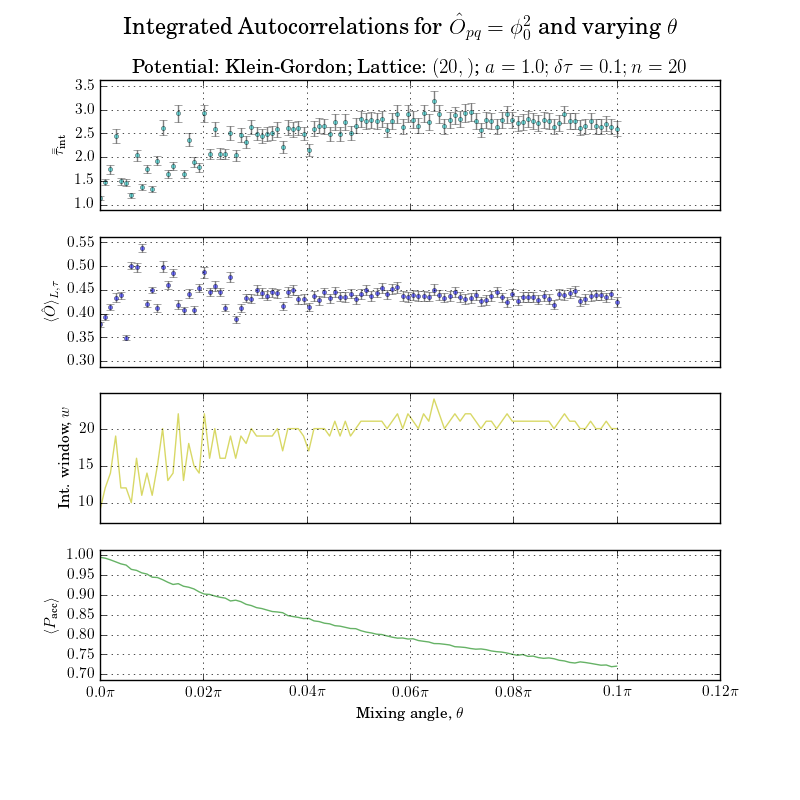
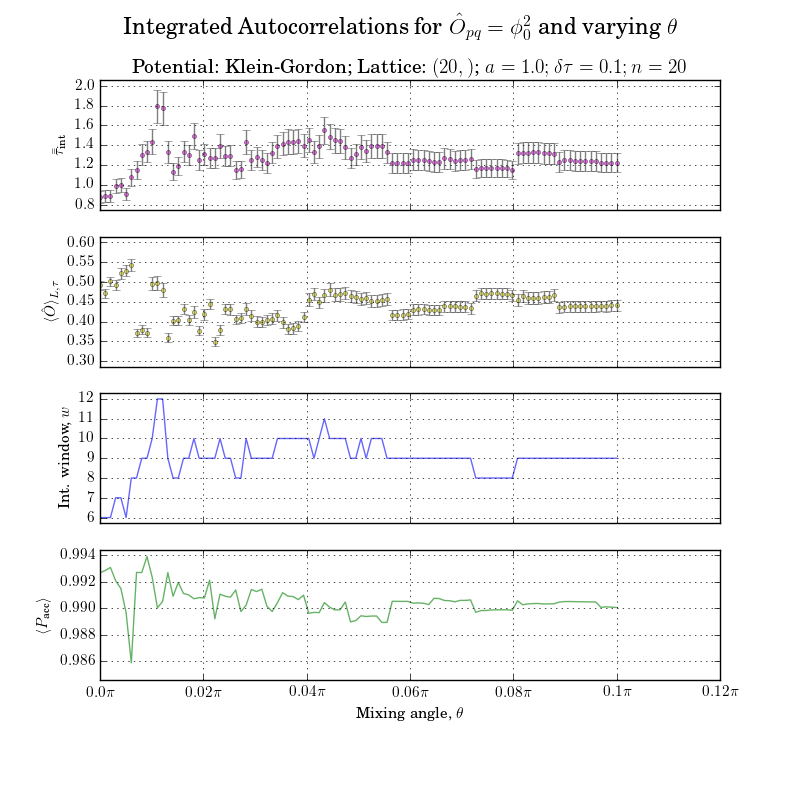
issue:#43 - re-running integrated correlations afte fixing acceptance rate in issue:#49
Former-commit-id: 18e2a4d179849ef3b65b83d40fdd21b970477a92

diff --git a/results/intacorr_xx_ghmc_kg_0p00t2p00.py b/results/intacorr_xx_ghmc_kg_0p00t2p00.py
@@ -14,9 +14,10 @@ spacing    = 1.
 step_size  = .1
 rand_steps = True
 points     = 100
+n_steps    = 20
 
-n_samples, n_burn_in = 20000, 20
-angle_fracs = np.linspace(0, .5, points, True)
+n_samples, n_burn_in = 200000, 20
+angle_fracs = np.linspace(0, 2., points, True)
 
 opFn = lambda samples: twoPoint(samples, separation=0)
 op_name = r'$\hat{O}_{pq} = \phi_0^2$'
@@ -24,7 +25,7 @@ op_name = r'$\hat{O}_{pq} = \phi_0^2$'
 if '__main__' == __name__:
     intac.main(x0, pot, file_name, 
         n_samples = n_samples, n_burn_in = n_burn_in, spacing = spacing,
-        rand_steps = rand_steps, step_size = step_size, n_steps = 1,
+        rand_steps = rand_steps, step_size = step_size, n_steps = n_steps,
         opFn = opFn, op_name=op_name,
         angle_fracs = angle_fracs,
         save = True)

diff --git a/results/intacorr_xx_khmc_kg_0p00t2p00.py b/results/intacorr_xx_khmc_kg_0p00t2p00.py
@@ -14,10 +14,9 @@ spacing    = 1.
 step_size  = .1
 rand_steps = True
 points     = 100
-n_steps    = 20
 
-n_samples, n_burn_in = 20000, 20
-angle_fracs = np.linspace(0, .1, points, True)
+n_samples, n_burn_in = 200000, 20
+angle_fracs = np.linspace(0, 2., points, True)
 
 opFn = lambda samples: twoPoint(samples, separation=0)
 op_name = r'$\hat{O}_{pq} = \phi_0^2$'
@@ -25,7 +24,7 @@ op_name = r'$\hat{O}_{pq} = \phi_0^2$'
 if '__main__' == __name__:
     intac.main(x0, pot, file_name, 
         n_samples = n_samples, n_burn_in = n_burn_in, spacing = spacing,
-        rand_steps = rand_steps, step_size = step_size, n_steps = n_steps,
+        rand_steps = rand_steps, step_size = step_size, n_steps = 1,
         opFn = opFn, op_name=op_name,
         angle_fracs = angle_fracs,
         save = True)

diff --git a/results/common/intac.py b/results/common/intac.py
@@ -117,9 +117,9 @@ def main(x0, pot, file_name, n_samples, n_burn_in, angle_fracs,
         xx = np.average(cfn)        # get average of the function run over the samples
         return cfn, xx, p
     
-    ans = prll_map(coreFunc, zip(range(angls.size), angls, n_samples), verbose=1-explicit_prog)
+    ans = prll_map(coreFunc, zip(range(angle_fracs.size), angls, n_samples), verbose=1-explicit_prog)
     cfn_lst, xx_lst, p_lst = zip(*ans)          # unpack from multiprocessing
-    print '\n'*angls.size*explicit_prog         # hack to avoid overlapping!
+    print '\n'*angle_fracs.size*explicit_prog         # hack to avoid overlapping!
     
     print '\n > Calculating integrated autocorrelations...\n'
     def coreFunc2(cfn):

diff --git a/results/intacorr_xx_khmc_kg_0p00t0p10.py b/results/intacorr_xx_khmc_kg_0p00t0p10.py
@@ -13,11 +13,11 @@ x0 = np.random.random((n,)*dim)
 spacing    = 1.
 step_size  = .1
 rand_steps = True
-points     = 50
+points     = 100
 angle_fracs = np.linspace(.005, .1, points, True)
 
 n_burn_in = 20
-n_samples = (100**(-np.log10(angle_fracs/100))).astype("int")
+n_samples = 10000
 
 opFn = lambda samples: twoPoint(samples, separation=0)
 op_name = r'$\hat{O}_{pq} = \phi_0^2$'

diff --git a/correlations/acorr.py b/correlations/acorr.py
@@ -90,7 +90,7 @@ def acorr(op_samples, mean, separation, norm = 1):
     acorrs = ((shifted - mean)*(op_samples - mean))[:n-separation] # indexing the 1st index for samples
     
     # normalise if a normalisation is given
-    acorrs /= norm
+    acorrs = acorrs / norm
     
     # av over all even of random trjectories
     acorr = acorrs.ravel().mean()

diff --git a/correlations/errors.py b/correlations/errors.py
@@ -165,7 +165,7 @@ def windowing(f_ret, f_aav, s_tau, n, fast):
     """
     
     # get autocorrelations: Don't normalise until bias corrected
-    fn = lambda t: getAcorr(op_samples=f_ret, mean=f_aav, separation=t, norm=None)
+    fn = lambda t: getAcorr(op_samples=f_ret, mean=f_aav, separation=t, norm=1)
     t_max = int(n//2) + 1
     
     if fast:
